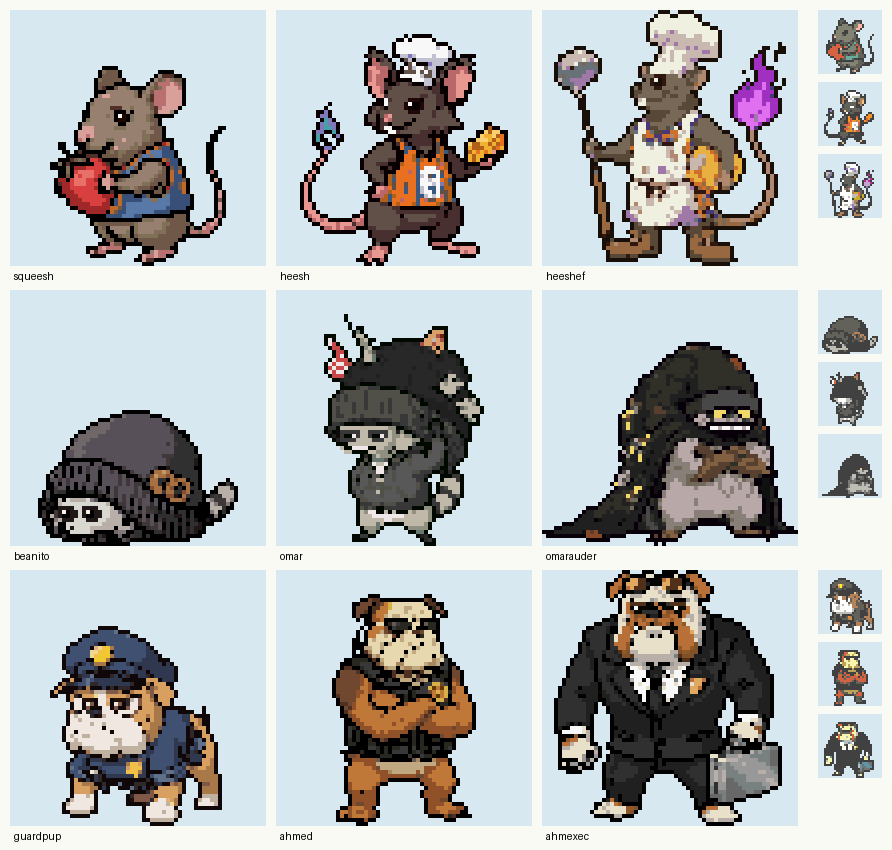
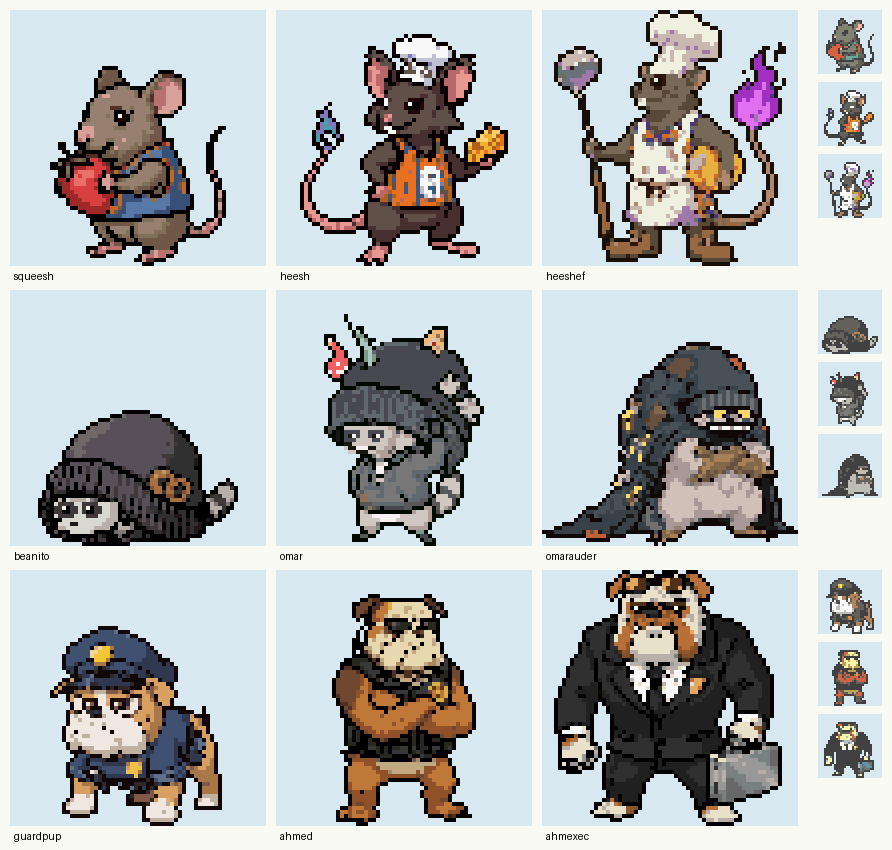
Make the Omar line readable: lift dark fills, rib the cuffs, redraw faces
Adds --lift-darks/--dark-tint to the converter: dark fills are brightened
into a blue-black ramp while line work stays black, the way Gen 3 draws dark
Pokemon. Omar and Omarauder use it; their beanie cuffs are ribbed with a new
region-remap touch-up, and Beanito, Omar and Omarauder get redrawn faces.

Claude-Session: https://claude.ai/code/session_01BRCGKvtVfxSvTFq1kJgtBG

diff --git a/emerald-remix/tools/convert_sprite.py b/emerald-remix/tools/convert_sprite.py
@@ -60,7 +60,23 @@ def write_jasc(path, colors):
             f.write("%d %d %d\n" % c)
 
 
-def load(src, recolors):
+def lift_darks(rgb, solid, gamma, tint):
+    """Brighten dark fills so black-clothed creatures keep readable shading, as Gen 3 does for dark
+    Pokémon. Line work (near-black) stays black. Dark neutral fills get a cool `tint` (R,G,B added
+    at full strength for the darkest fills, fading out by mid-grey) so black cloth reads as blue-black."""
+    lum = rgb @ np.asarray([0.299, 0.587, 0.114], np.float32)
+    fill = solid & (lum > 28)
+    target = 255 * (lum / 255) ** gamma
+    k = np.where(fill, target / np.maximum(lum, 1), 1)
+    out = rgb * k[..., None]
+    sat = (rgb.max(-1) - rgb.min(-1)) / np.maximum(rgb.max(-1), 1)
+    w = fill & (sat < 0.25)
+    strength = np.clip((110 - lum) / 80, 0, 1) * w
+    out += strength[..., None] * np.asarray(tint, np.float32)
+    return np.clip(out, 0, 255)
+
+
+def load(src, recolors, lift=None, tint=(0, 0, 0)):
     rgb = np.asarray(Image.open(src).convert("RGB"), dtype=np.float32)
     solid = ~green_mask(rgb)
     # Green spill on edge pixels: pull green down to the other channels.
@@ -71,6 +87,8 @@ def load(src, recolors):
     rgb, solid = rgb[y0:y1, x0:x1], solid[y0:y1, x0:x1]
     for spec in recolors:
         rgb = recolor(rgb, solid, spec)
+    if lift:
+        rgb = lift_darks(rgb, solid, lift, tint)
     return rgb, solid
 
 
@@ -272,6 +290,10 @@ def main():
     ap.add_argument("--stage", type=int, choices=(1, 2, 3), required=True)
     ap.add_argument("--back", action="store_true", help="source is a back sprite")
     ap.add_argument("--no-icon", dest="icon", action="store_false")
+    ap.add_argument("--lift-darks", type=float, metavar="GAMMA",
+                    help="brighten dark fills (e.g. 0.7) so black-clothed designs keep shading")
+    ap.add_argument("--dark-tint", default="0,0,0", metavar="R,G,B",
+                    help="color added to dark neutral fills with --lift-darks, e.g. 0,6,24 for blue-black")
     ap.add_argument("--recolor", action="append", default=[],
                     help="HUE_FROM-HUE_TO:NEW_HUE[:SAT], e.g. 190-250:30:0.5 turns blue-grey into brown")
     ap.add_argument("--method", choices=("hybrid", "majority"), default="hybrid")
@@ -280,7 +302,7 @@ def main():
     a = ap.parse_args()
     LINE_SHARE, CONTRAST = a.line_share, a.contrast
     os.makedirs(a.out_dir, exist_ok=True)
-    rgb, solid = load(a.source, a.recolor)
+    rgb, solid = load(a.source, a.recolor, a.lift_darks, tuple(map(int, a.dark_tint.split(","))))
     make_sprite(rgb, solid, a.out_dir, a.stage, a.back, a.method)
     msg = a.out_dir
     if a.icon and not a.back:

diff --git a/emerald-remix/tools/touchup.py b/emerald-remix/tools/touchup.py
@@ -7,6 +7,8 @@ EDITS.txt holds one edit per line ('#' starts a comment):
   row Y X0 i i i ...   set pixels (X0, Y), (X0+1, Y), ... to palette indices; '_' leaves one alone
   px X Y i             set one pixel
   remap A B            every pixel using index A now uses index B (frees slot A)
+  rremap X0 Y0 X1 Y1 A B [even|odd]
+                       same, but only inside the box (inclusive), optionally only even/odd columns
   color I R G B        change palette slot I (also written to PALETTE.pal if given)
 """
 import sys
@@ -35,6 +37,14 @@ def main():
             a[int(args[1]), int(args[0])] = int(args[2])
         elif op == "remap":
             a[a == int(args[0])] = int(args[1])
+        elif op == "rremap":
+            x0, y0, x1, y1, src, dst = map(int, args[:6])
+            box = a[y0:y1 + 1, x0:x1 + 1]
+            hit = box == src
+            if len(args) > 6:
+                cols = np.arange(x0, x1 + 1) % 2 == (0 if args[6] == "even" else 1)
+                hit &= cols[None, :]
+            box[hit] = dst
         elif op == "color":
             i = int(args[0])
             pal[i * 3:i * 3 + 3] = [int(v) for v in args[1:4]]
